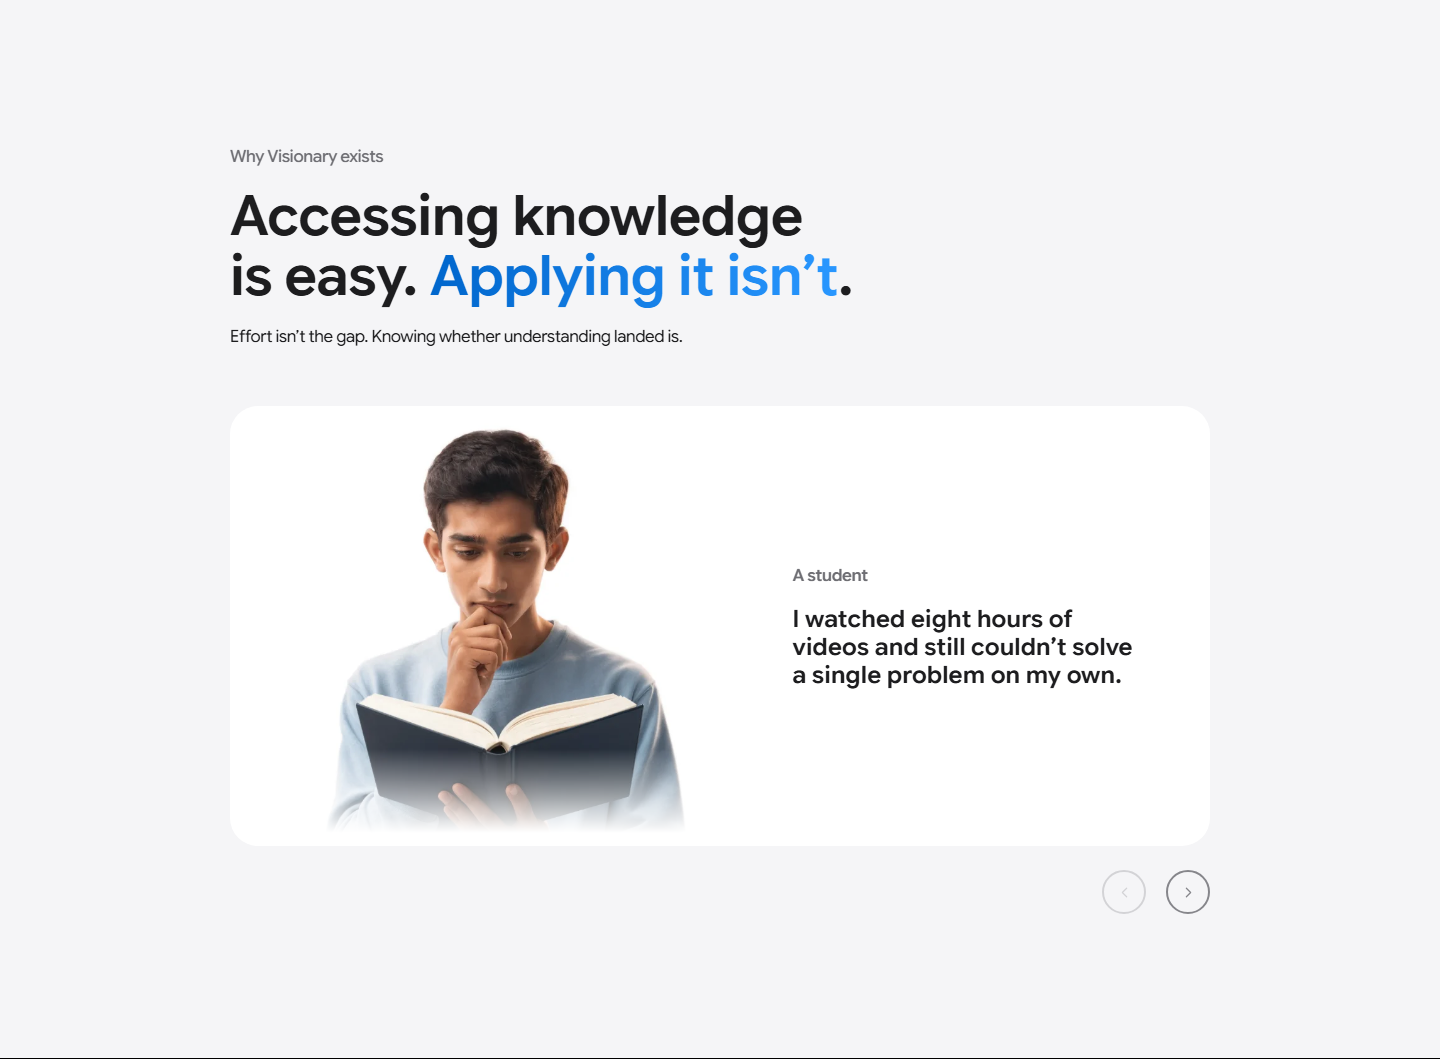
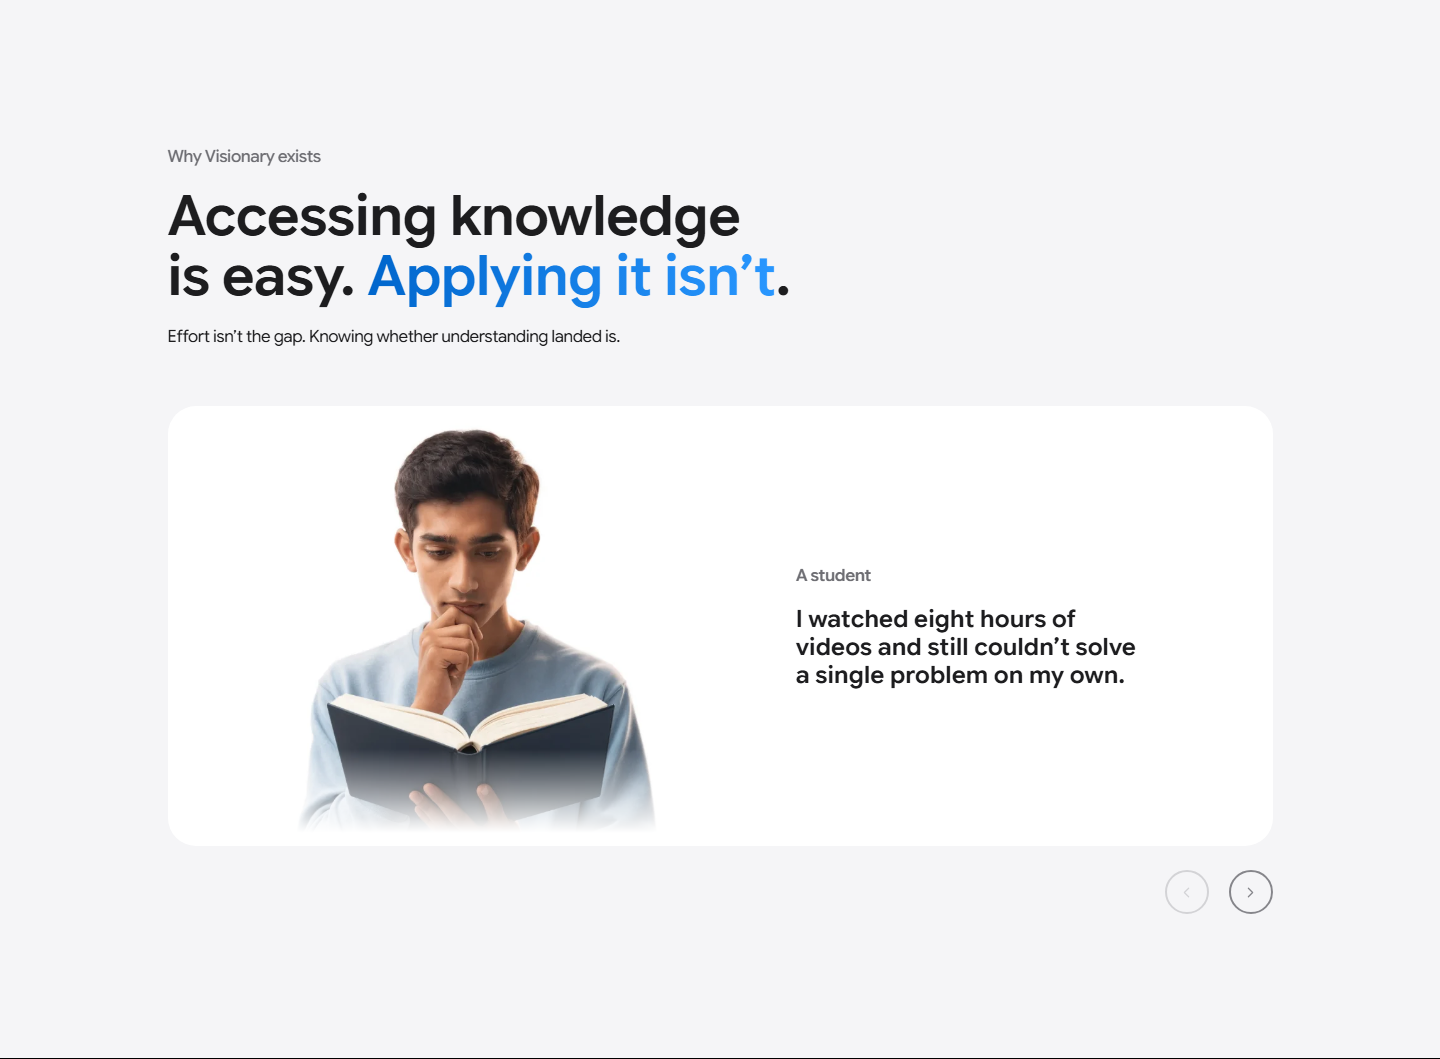
FHE-01 (V10): the problem chapter joins the journeys gutter; one heading tier for every card and column
Founder directives, applied and measured:
- The problem chapter moves to the Who-it's-for gutter (1265+80): its
  statement now sits at left 168 = the explore header's 168 — the two
  chapters share one left edge in the flow
- The card name steps down from the 56 statement tier to the 28 card
  tier (data-type feature): the super heading owns the large size, the
  product's one-size-per-role law bars the same size later in the page
- The next section's columns match the card anatomy exactly, verified
  computed: What-you-get headings 28 = the card's 28; Trust headings
  28 (retired from the 19px value-title tier for the card tier); the
  card fragment and the column copies both at the 19px value-body voice
- The What-you-get chapter's sub label ('What you get') is removed —
  Apple's statement chapters open directly with the statement

Verified: quality gate PASS; 871/871 tests after scope refresh; lint
clean.

diff --git a/visionary-app/frontend/src/pages/Landing.jsx b/visionary-app/frontend/src/pages/Landing.jsx
@@ -232,7 +232,7 @@ function LandingProblemSection() {
     <section ref={ref} data-section="02-problem" className="relative z-10 overflow-hidden bg-[#f5f5f7]" style={{ fontFamily: fontStack }}>
       <Reveal visible={visible}>
         <p className="sr-only">Stories from a student and a professional about the moment understanding breaks down.</p>
-        <div className="public-editorial-frame mx-auto">
+        <div className="mx-auto w-full max-w-[1265px] px-6 lg:px-[80px]">
           <p className="text-[17px] font-medium" style={{ color: BRAND.graphite }}>Why Visionary exists</p>
           <h2 key={`h-${index}`} data-type="section" className="hero-fade-up mt-[var(--gap-eyebrow-title-display)] text-balance font-semibold" style={{ color: BRAND.ink, maxWidth: "980px" }}>
             {slide.black} <span className="accent-gradient">{slide.blue}</span>.
@@ -244,7 +244,7 @@ function LandingProblemSection() {
           </p>
         </div>
         <figure className="m-0">
-          <div className="public-editorial-frame mx-auto">
+          <div className="mx-auto w-full max-w-[1265px] px-6 lg:px-[80px]">
             {/* the story card — one white object on the grey ground: the
                 subject bleeds on the card’s left field, the voice sits on the
                 right panel. The card is the chapter’s one story unit, so the
@@ -396,7 +396,6 @@ function LandingReturnSection() {
     <section ref={ref} data-section="04-return" className="relative isolate bg-white [overflow-x:clip]" style={{ fontFamily: fontStack }}>
       <Reveal visible={visible}>
         <div className="mx-auto w-full max-w-[1400px] px-6 lg:px-[var(--frame-x)]">
-          <p className="text-[17px] font-medium" style={{ color: BRAND.graphite }}>What you get</p>
           <figure className="m-0">
             <blockquote className="mt-[clamp(20px,2.6vw,32px)]">
               <p data-type="card-chapter" className="text-balance font-semibold" style={{ color: BRAND.ink, maxWidth: "30ch" }}>“A person should not have to start over every time life asks them to learn something new.”</p>

diff --git a/visionary-app/frontend/src/components/landing/persona/premium/PremiumExploreSection.jsx b/visionary-app/frontend/src/components/landing/persona/premium/PremiumExploreSection.jsx
@@ -45,15 +45,16 @@ const PremiumExploreCard = React.memo(function PremiumExploreCard({ category, im
       <div className="absolute inset-x-0 top-0 flex items-start justify-between gap-6 p-6 sm:p-8 lg:p-12">
         <div>
           <h3
-            data-type="section"
+            data-type="feature"
             className="text-balance"
-            style={{ color: color.ink, maxWidth: "14ch" }}
+            style={{ color: color.ink, maxWidth: "18ch" }}
           >
             {category.chip}
           </h3>
           <p
-            className="mt-1.5 text-balance font-normal tracking-[0] leading-[1.4] text-[15px] sm:text-[17px] lg:text-[21px]"
-            style={{ color: color.slate, maxWidth: "22ch" }}
+            data-type="value-body"
+            className="mt-1.5 text-balance"
+            style={{ maxWidth: "22ch" }}
           >
             {category.copy}
           </p>

diff --git a/visionary-app/frontend/src/components/landing/persona/premium/PremiumTrustSection.jsx b/visionary-app/frontend/src/components/landing/persona/premium/PremiumTrustSection.jsx
@@ -52,7 +52,7 @@ function PremiumTrustSection({ heading, sub, values }) {
                   style={{ borderColor: `${color.ink}1A` }}
                 >
                   {value.Icon && <value.Icon aria-hidden="true" className="h-5 w-5" strokeWidth={1.8} style={{ color: color.ink }} />}
-                  <h3 data-type="value-title" className={value.Icon ? "mt-4" : "mt-0"} style={{ color: color.ink }}>
+                  <h3 data-type="feature" className={value.Icon ? "mt-4" : "mt-0"} style={{ color: color.ink }}>
                     {value.title}
                   </h3>
                   <p data-type="value-body" className="mt-2 max-w-[35ch] text-balance" style={{ color: color.slate }}>
